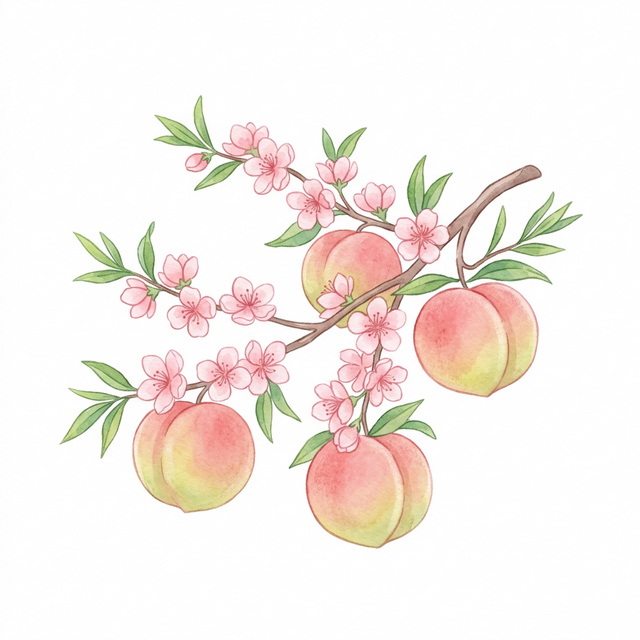
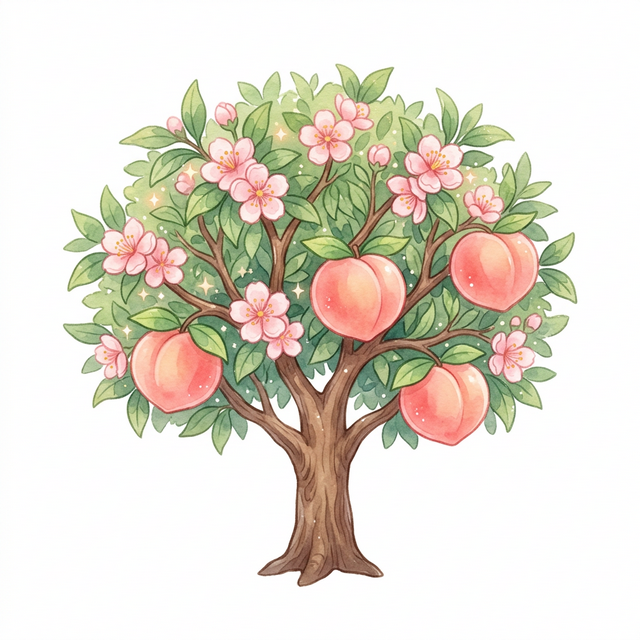
fix: 🍑🎃 重新生成桃树和南瓜成熟阶段图片
- 桃树: 断枝+果实 → 完整树（树干+树冠+花+桃子）
- 南瓜: 光秃南瓜 → 完整藤蔓植株（藤+叶+卷须+花+南瓜果）

经全面审查确认所有 29 种植物均为完整植株

diff --git a/public/js/views/garden.js b/public/js/views/garden.js
@@ -4,7 +4,7 @@ const _wbCache = {};
 function removeWhiteBg(container) {
     if (!container) return;
     const imgs = container.querySelectorAll
-        ? container.querySelectorAll('img[src*="/img/trees/"]')
+        ? container.querySelectorAll('img[src*="/img/trees/"], img[src*="/img/garden/"]')
         : [];
     imgs.forEach(img => {
         const process = () => {
@@ -177,9 +177,9 @@ const GardenView = {
         weed: { name: '杂草堆', cost: 5 },
         wild_tree: { name: '野树', cost: 15 },
     },
-    rockVariants: ['/img/garden/rock_pile_1.png?v=2', '/img/garden/rock_pile_2.png?v=2'],
-    weedVariants: ['/img/garden/weed_pile_1.png?v=2', '/img/garden/weed_pile_2.png?v=2'],
-    wildTreeVariants: ['/img/garden/wild_tree_1.png?v=2', '/img/garden/wild_tree_2.png?v=2', '/img/garden/wild_tree_3.png?v=2'],
+    rockVariants: ['/img/garden/rock_pile_1.png?v=3', '/img/garden/rock_pile_2.png?v=3'],
+    weedVariants: ['/img/garden/weed_pile_1.png?v=3', '/img/garden/weed_pile_2.png?v=3'],
+    wildTreeVariants: ['/img/garden/wild_tree_1.png?v=3', '/img/garden/wild_tree_2.png?v=3', '/img/garden/wild_tree_3.png?v=3'],
 
     SCENE_GRID_W: 8,
     SCENE_GRID_H: 6,

diff --git a/public/js/views/garden-island.js b/public/js/views/garden-island.js
@@ -193,7 +193,7 @@ Object.assign(GardenView, {
         if (plot.status === 'cleared') {
             const sel = this.selectedTree;
             return `<div class="iplot cleared ${zoneClass} ${sel ? 'plantable' : ''} ${isSelected ? 'selected' : ''}" data-zone="${zone || ''}" data-plot-id="${plot.id}" style="${style}" title="">
-                <img src="/img/garden/tilled_land.png?v=2" alt="" class="iplot-tilled">
+                <img src="/img/garden/tilled_land.png?v=3" alt="" class="iplot-tilled">
                 ${isSelected && sel ? '<button class="iplot-action" data-action="plant" title="">🌱</button>' : ''}
             </div>`;
         }
